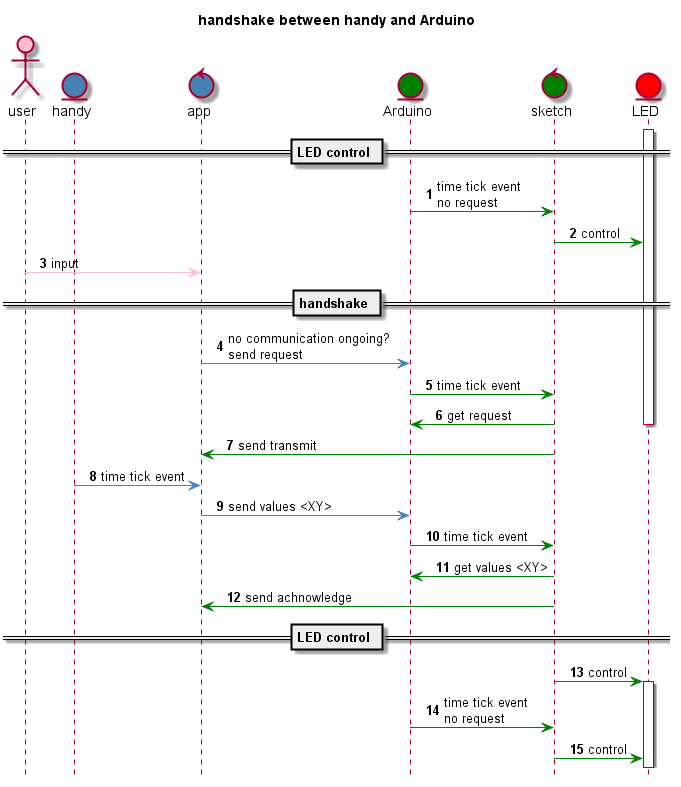
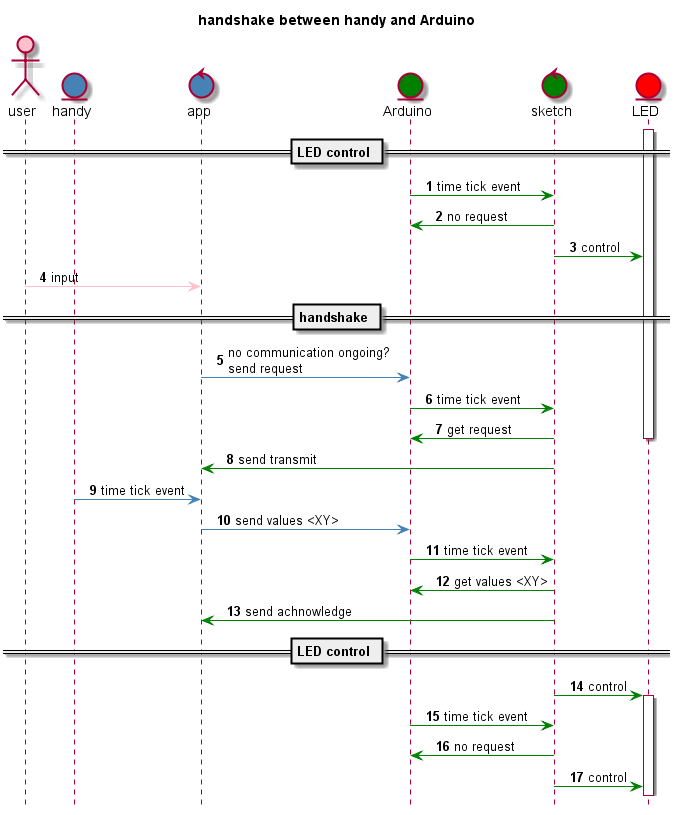
corrections

diff --git a/README.md b/README.md
@@ -43,12 +43,12 @@ So finally I realized my project with the following cornerstones.
 A) I let my data transfer only be 4 char long:  
 1 char for the selected color or the selected LED animation together with the selected value of  1 char. Ahead of these 2 chars comes 1 char as a start sign. And afterwards comes 1 char as a stop sign.  
 B) A handshake is implemented this way (see picture below):  
-If I change a color or a LED animation in the app (3) and there isn't already a communication going on, it first sends only 1 char as a request to the Arduino and wait for the answer (4). This blocking is wanted because I don't want to start a new communication before an ongoing is processed by both the Arduino and the app.  
-The char lands in the receive buffer of the UART. The sketch looks time triggered into the receive buffer (5) and when it notices the request (6), it sends a transmit char to the app (7) and stays in the communication state because like I said before, communication and LED control can't work parallel.  
-If the app notices the transmit char, also time triggered (8, 9), it sends the 4 char data and wait aigan for the acknowledge of the Arduino. Because the sketch knows at this time that it awaits data it looks time triggered for the start sign (10).
-With the start sign the sketch processes the data until the stop sign shows up (11). Then it sends the acknowledge sign (12) and turns to the LED control (13).  
-When the app receives the acknowledge sign it becomes ready for a next transmission (12).  
-The sktech looks periodically into the receive buffer and turns back right away to the LED control if there is no new request (1, 2, 14, 15).  
+If I change a color or a LED animation in the app (4) and there isn't already a communication going on, it first sends only 1 char as a request to the Arduino and wait for the answer (5). This blocking is wanted because I don't want to start a new communication before an ongoing is processed by both the Arduino and the app.  
+The char lands in the receive buffer of the UART. The sketch looks time triggered (6) into the receive buffer and when it notices the request (7), it sends a transmit char to the app (8) and stays in the communication state because like I said before, communication and LED control can't work parallel.  
+If the app notices the transmit char, also time triggered (9, 10), it sends the 4 char data and wait aigan for the acknowledge of the Arduino. Because the sketch knows at this time that it awaits data it looks time triggered (11) for the start sign (12).
+With the start sign the sketch processes the data until the stop sign shows up. Then it sends the acknowledge sign (13) and turns to the LED control (14).  
+When the app receives the acknowledge sign it becomes ready for a next transmission (13).  
+The sktech looks periodically time triggered (1, 15) into the receive buffer and turns back right away to the LED control if there is no new request (2, 16).  
 C) I use the same time tick for the communication and the pause between the LED animation.  
 
 ![handshake](doc/handshake.png)  
